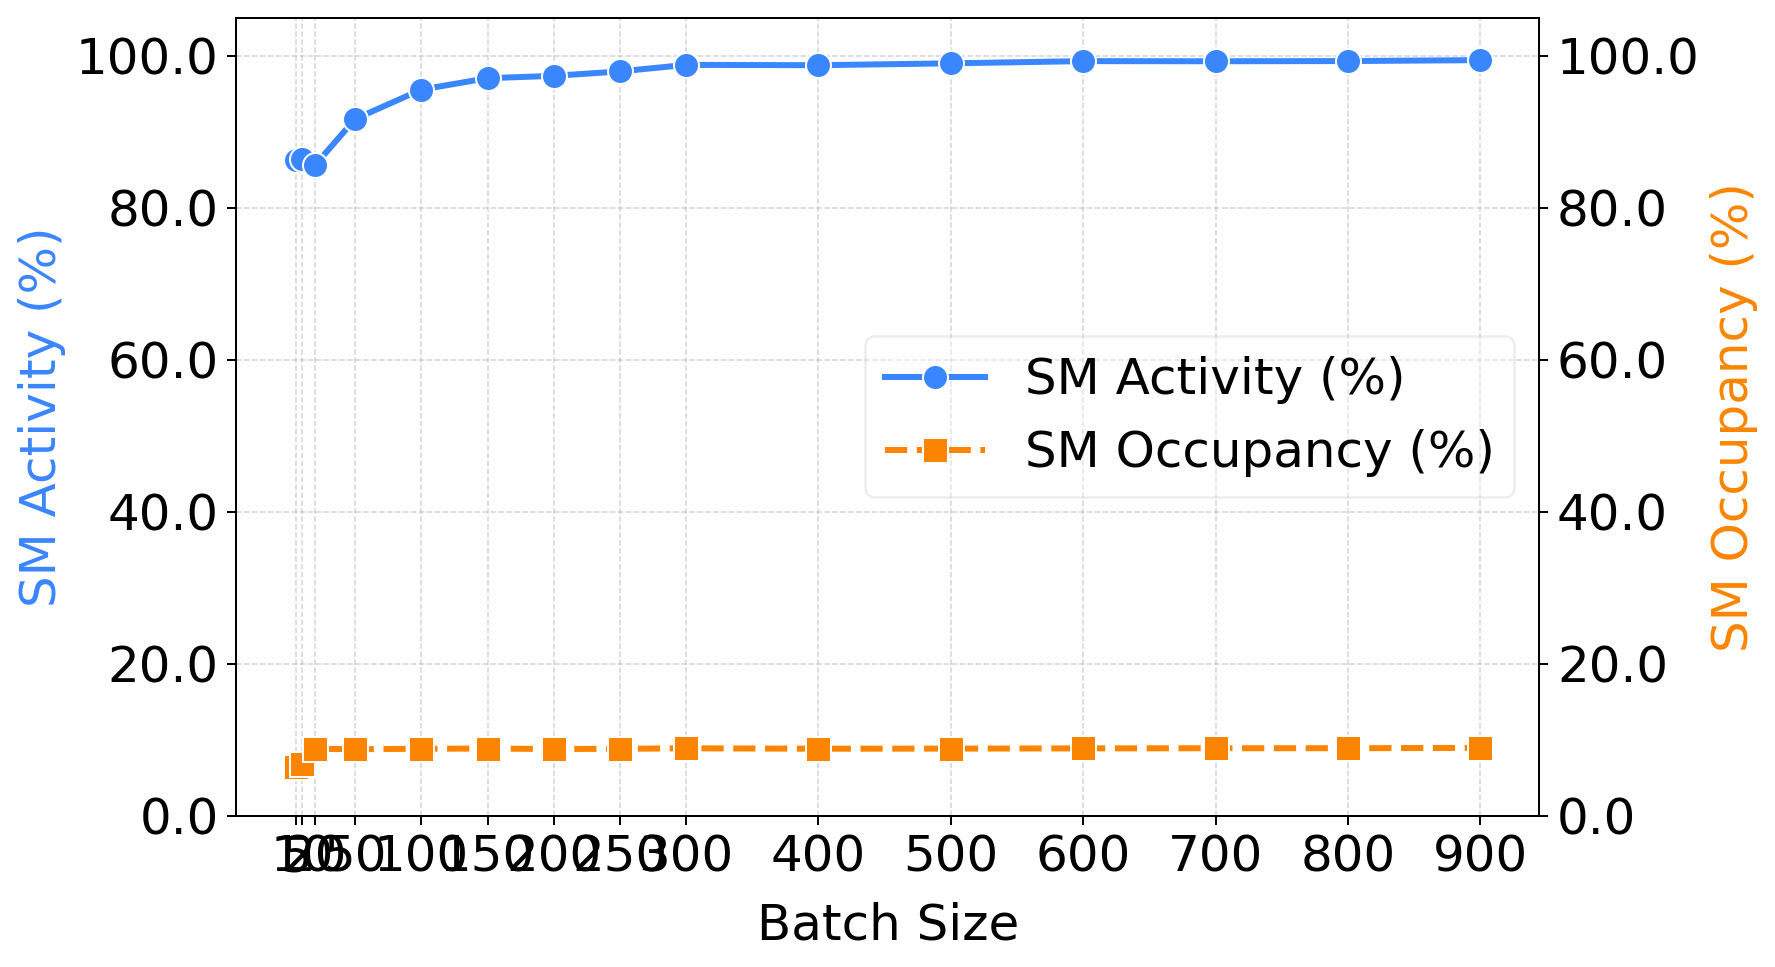
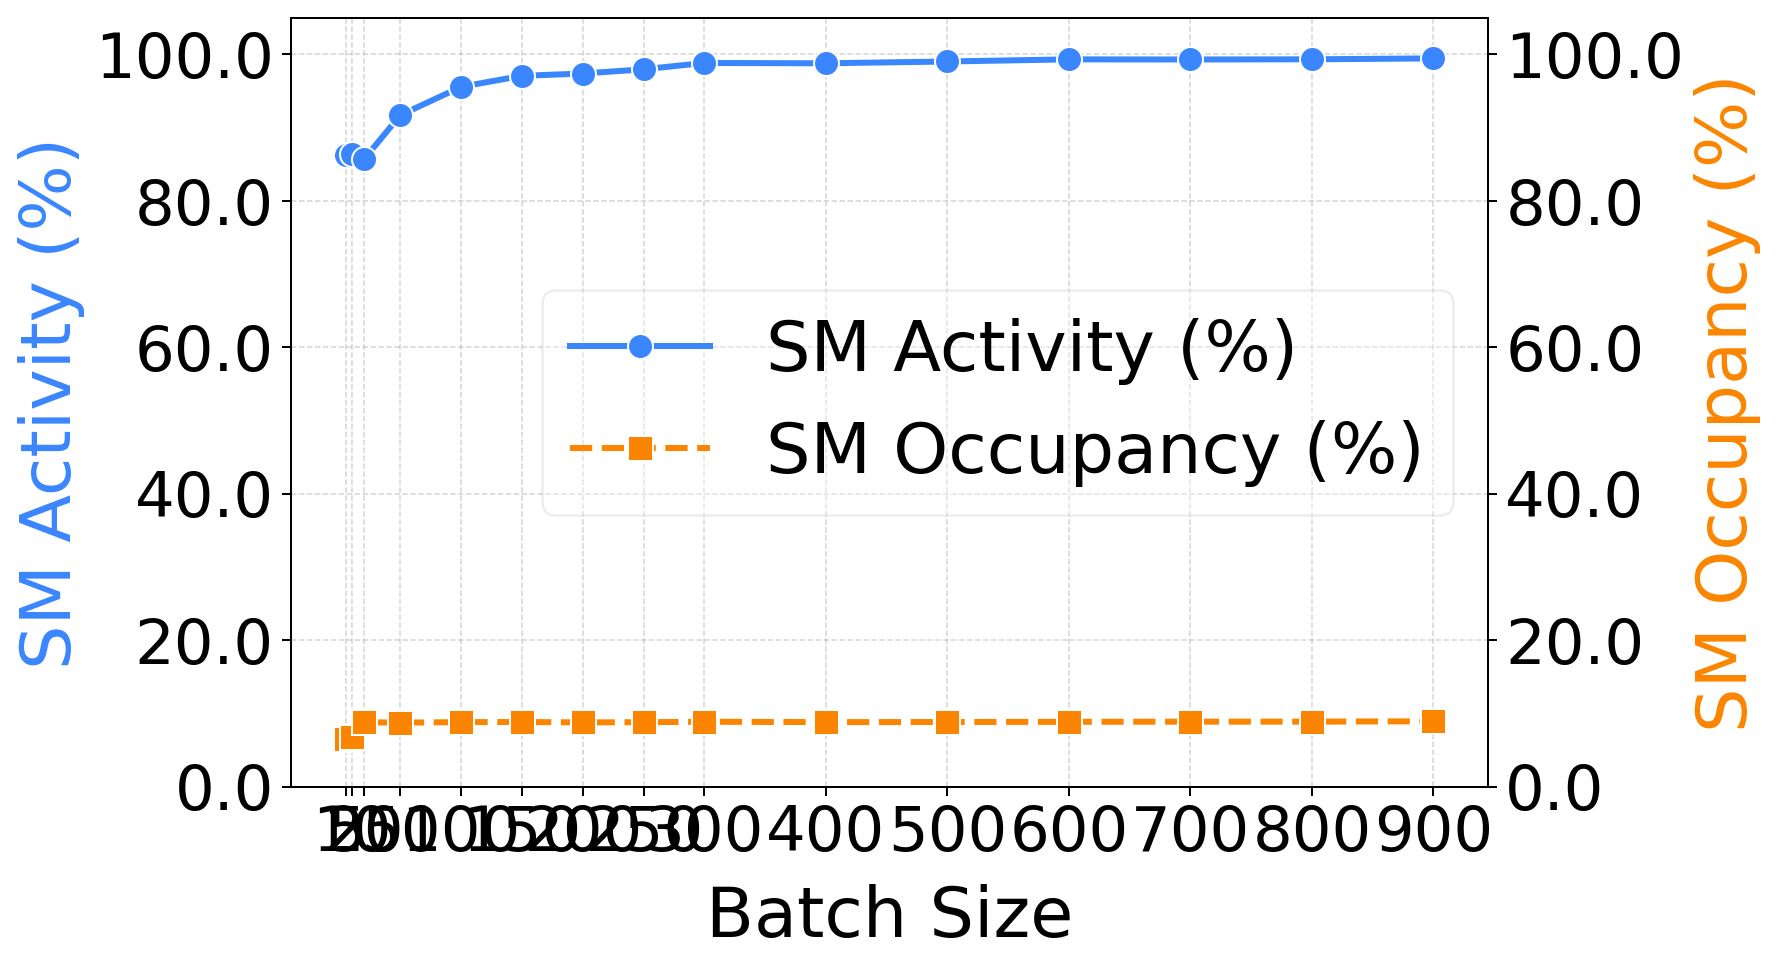
two-fam

diff --git a/code/vllm/batch_size_logs/plot.py b/code/vllm/batch_size_logs/plot.py
@@ -191,11 +191,11 @@ def _finish(fig, ax_l, ax_r,
             xlabel, ylabel_l, ylabel_r,
             legend_l, legend_r,
             outpath):
-    ax_l.set_xlabel(xlabel,   fontsize=20, labelpad=8)
-    ax_l.set_ylabel(ylabel_l, fontsize=20, color=ax_l.get_lines()[0].get_color())
-    ax_r.set_ylabel(ylabel_r, fontsize=20, color=ax_r.get_lines()[0].get_color())
-    ax_l.tick_params(axis="both", labelsize=20)
-    ax_r.tick_params(axis="y",    labelsize=20)
+    ax_l.set_xlabel(xlabel,   fontsize=28, labelpad=8)
+    ax_l.set_ylabel(ylabel_l, fontsize=28, color=ax_l.get_lines()[0].get_color())
+    ax_r.set_ylabel(ylabel_r, fontsize=28, color=ax_r.get_lines()[0].get_color())
+    ax_l.tick_params(axis="both", labelsize=25)
+    ax_r.tick_params(axis="y",    labelsize=25)
     ax_l.grid(True, linewidth=0.6, linestyle="--", alpha=0.55)
 
     # Combined legend
@@ -205,7 +205,7 @@ def _finish(fig, ax_l, ax_r,
         loc = "lower right"
     else:
         loc = "center right"
-    ax_l.legend(lines, labels, fontsize=20, framealpha=0.35, loc=loc)
+    ax_l.legend(lines, labels, fontsize=28, framealpha=0.35, loc=loc)
 
     plt.tight_layout()
     fig.savefig(outpath, dpi=DPI, bbox_inches="tight")
@@ -254,7 +254,7 @@ def plot_throughput_tensor(data: dict, out_dir: str) -> None:
     _finish(fig, ax_l, ax_r,
             xlabel   = "Batch Size",
             ylabel_l = "Throughput (toks/s)",
-            ylabel_r = "Tensor Core Utilization (%)",
+            ylabel_r = "Tensor Core Util. (%)",
             legend_l = "Throughput (toks/s)",
             legend_r = "Tensor Core Util (%)",
             outpath  = os.path.join(out_dir, "plot1_throughput_tensor.png"))
